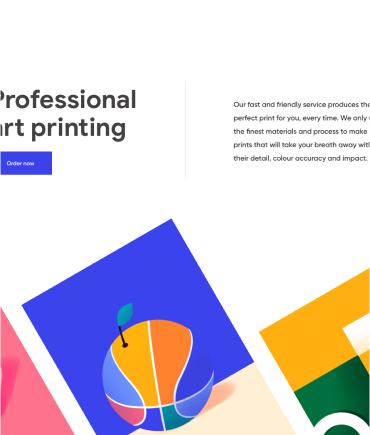
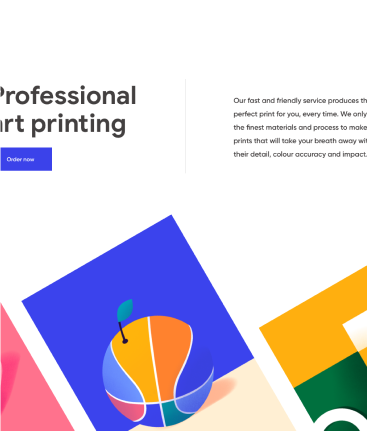
Fixes from 2nd review done
- Ticket: Kindly give some bottom padding to your card-container in order to make your design the same as the Figma one.
* Solution: tags added (clear ones and orange one)

- Ticket: Also, as the first reviewer said I think it's better to move the multi-post div inside the card-container. Because it's also one of the displayed projects. make this change because it is your project and all your projects should be inside one container.
* Solution: muti-post card moved to card container, refactoring some css code.

diff --git a/index.html b/index.html
@@ -67,16 +67,29 @@
         </header>
         <section>
 
-            <div class="multi-post">
-                <img class="mpimage" src="./assets/multipostplaceholder.png" alt="Place Holder">
-                <div class="post">
-                    <h2>Multi-Post Stories</h2>
-                    <p>A daily selection of privately personalized reads; no accounts or sign-ups required. has been the industry's standard dummy text ever since the 1500s, when an unknown printer took a standard dummy text.</p>
-                </div>
-            </div>
+
     
             <div class="card-container">
+
+                <!--Multi-post card-->
+                <div class="multi-post">
+                    <img class="mpimage" src="./assets/multipostplaceholder.png" alt="Place Holder">
+                    <div class="post">
+                        <h2>Multi-Post Stories</h2>
+                        <p>A daily selection of privately personalized reads; no accounts or sign-ups required. has been the industry's standard dummy text ever since the 1500s, when an unknown printer took a standard dummy text.</p>
+                    </div>
+                    <ul class="tags">
+                        <li class="card-tag-crystal">css</li>
+                        <li class="card-tag-crystal">html</li>
+                        <li class="card-tag-crystal">bootstrap</li>
+                        <li class="card-tag-crystal">ruby</li>
+                    </ul>
+                    <div class="mpfooter">
+                        <a href="#">See Project</a>
+                    </div>
+                </div>
     
+                <!--Normal cards-->
                 <div class="card">
                     <h2 class="card-title">Profesional Art Printing Data</h2>
                     <div class="card-body">

diff --git a/style/light-style.css b/style/light-style.css
@@ -1,12 +1,12 @@
 .light {
   margin-top: 20px;
-  background-color: #e5e5e5;
+  background-color: #fff;
   padding-left: 24px;
   padding-right: 24px;
 }
 
 .light h1 {
-  background-color: #e5e5e5;
+  background-color: #fff;
   font-family: Crete Round, sans-serif;
   font-size: 40px;
   font-style: normal;
@@ -28,6 +28,21 @@
 .multi-post {
   display: flex;
   flex-wrap: wrap;
+}
+
+.multi-post .mpfooter {
+  background-color: #ff6b00;
+  height: 48px;
+  color: #fff;
+  font-weight: bold;
+  font-size: 17px;
+  line-height: 24px;
+  font-family: Inter, sans-serif;
+  display: flex;
+  align-items: center;
+  justify-content: center;
+  margin-right: 196px;
+  margin-left: 0;
 }
 
 .multi-post > .mpimage {
@@ -107,17 +122,24 @@
   margin-right: 16px;
 }
 
-.card .tags {
+.tags {
   display: flex;
   list-style-type: none;
   justify-content: flex-start;
   padding-left: 0;
 }
 
-.card .card-tag {
+.tags .card-tag {
   background: rgba(255, 255, 255, 0.24);
   padding: 10px 12px;
   margin-right: 12px;
+}
+
+.tags .card-tag-crystal {
+  background: rgba(255, 255, 255, 0.24);
+  padding: 10px 12px;
+  margin-right: 12px;
+  border: 1px solid #8993a4;
 }
 
 .card .card-footer {
@@ -133,7 +155,8 @@
   justify-content: center;
 }
 
-.card a {
+.card a,
+.multi-post a {
   color: #fff;
   text-decoration: none;
 }
